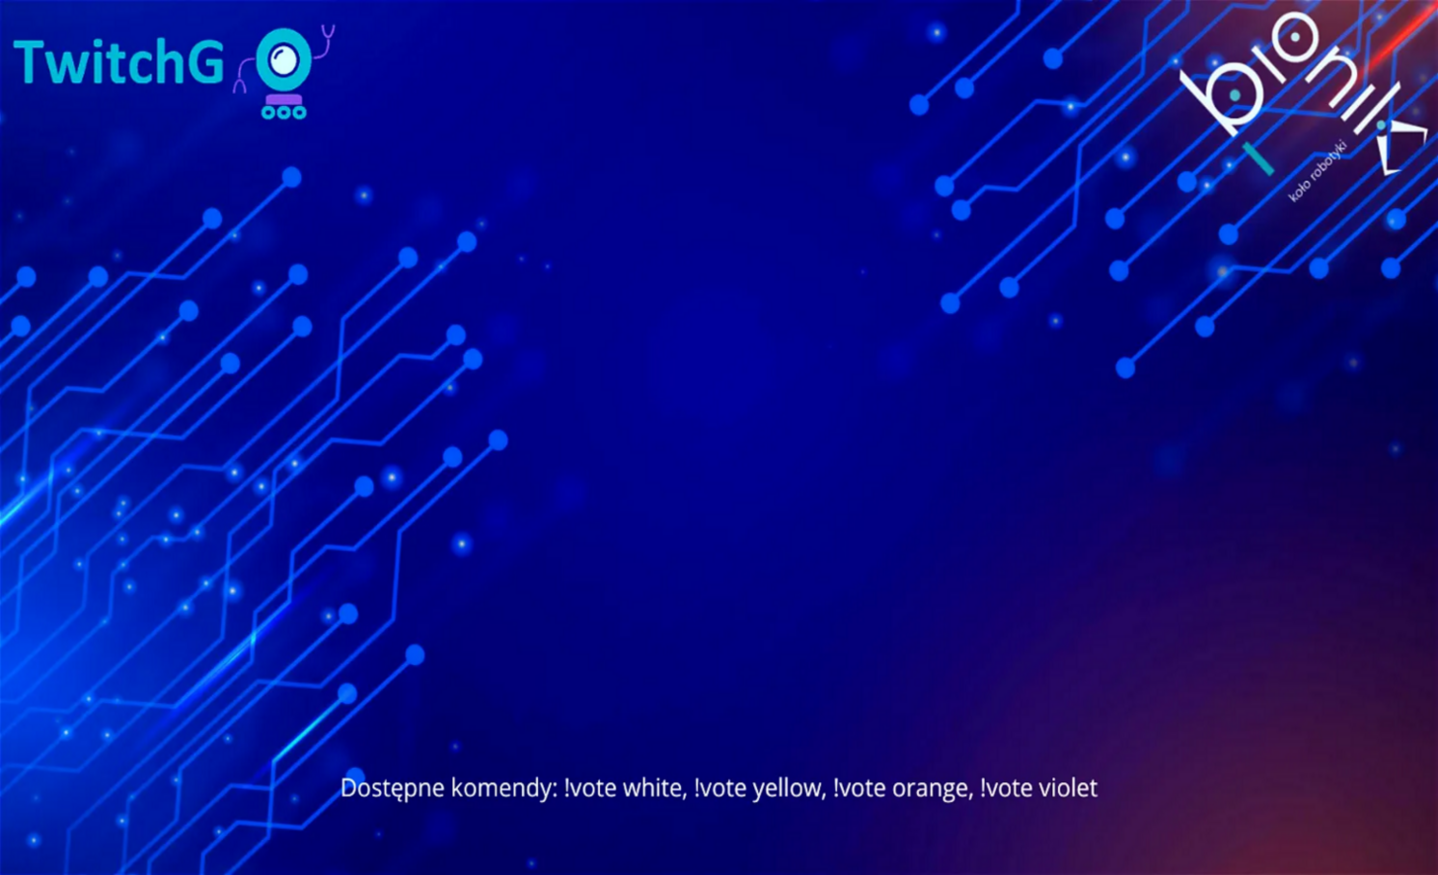
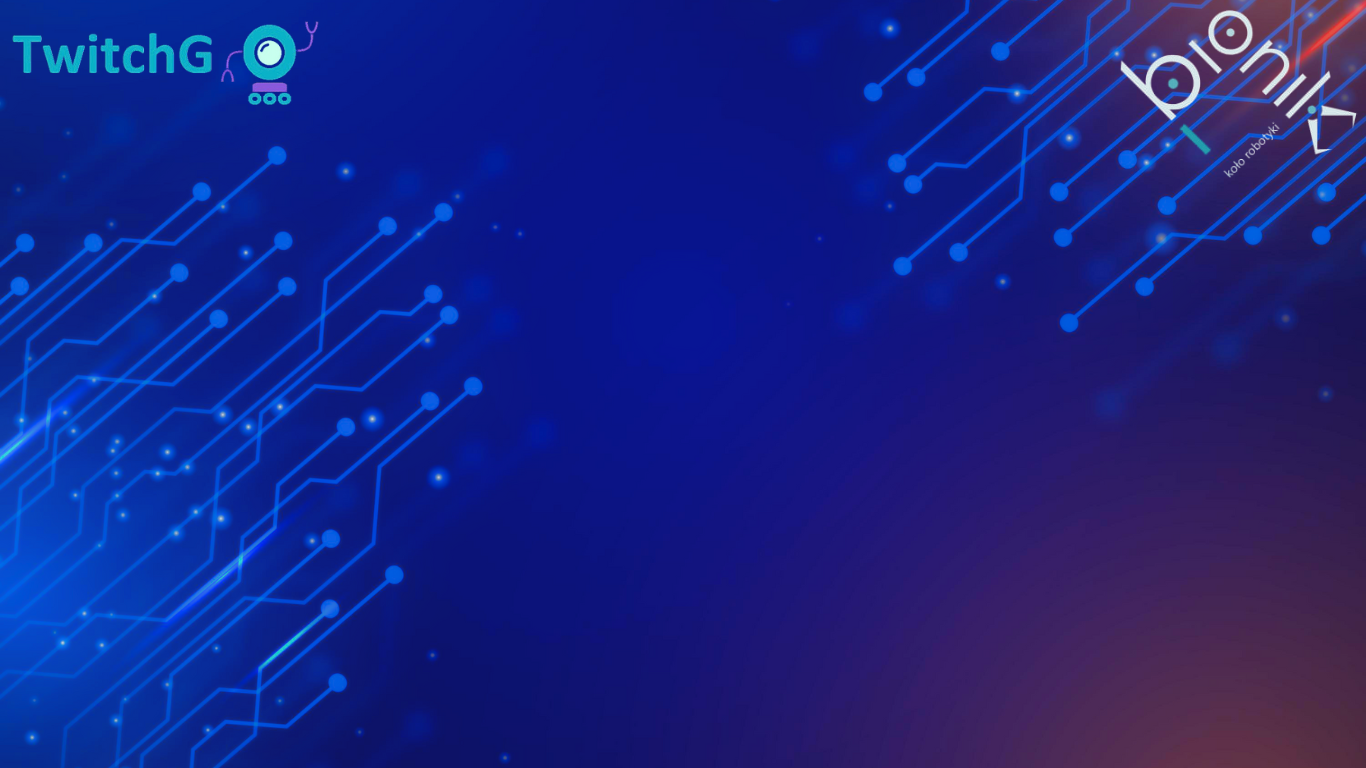
updating ui

diff --git a/viewers_view.py b/viewers_view.py
@@ -15,8 +15,9 @@ class ViewersView(QMainWindow, QGridLayout):
         self._ui = Ui_MainWindow()
         self._ui.setupUi(self)
         self._ui.score.setText('123')
-        self._stylesheet = 'background-image: url("picture.png");background-repeat:no-repeat;background-position:center;background-size: cover;'
-        self.setStyleSheet(self._stylesheet)
+        #self._stylesheet = 'background-image: url("picture.png");background-repeat:no-repeat;background-position:center'
+        self.set_background_image("picture.png")
+        #self.setStyleSheet(self._stylesheet)
         self._main_window = main_window
 
         #self._ui.bonus_time_first.setText("")
@@ -33,6 +34,17 @@ class ViewersView(QMainWindow, QGridLayout):
         self._time_between_commands = 10
         self._number_of_traps_on_display = 3
         self._choose_random_traps(self._number_of_traps_on_display)
+        self._ui.game_logo.setText("")
+        self._ui.game_logo.setPixmap(QPixmap("logo.png"))
+        self._ui.game_logo.setAlignment(Qt.AlignCenter)
+        self._ui.game_logo.setScaledContents(True)
+        self._ui.game_logo.setMinimumSize(350, 125)
+        
+        self._ui.logo_kola.setText("")
+        self._ui.logo_kola.setPixmap(QPixmap("logo_kola.png"))
+        self._ui.logo_kola.setAlignment(Qt.AlignCenter)
+        self._ui.logo_kola.setScaledContents(True)
+        self._ui.logo_kola.setMinimumSize(350, 125)
 
     def run_window(self):
         if (int(time.time()) - self._time_start) > self._time_between_commands:
@@ -115,6 +127,33 @@ class ViewersView(QMainWindow, QGridLayout):
         self._run_trap_with_most_votes()
         self._choose_random_traps(self._number_of_traps_on_display)
         self._clear_votes()
+    def set_background_image(self, image_path):
+        """
+        Sets the background image for the main window dynamically.
+        """
+        palette = QPalette()
+        pixmap = QPixmap("picture.png")
+
+        # Use QBrush to scale the image as per the window size dynamically
+        scaled_pixmap = pixmap.scaled(self.size(), Qt.IgnoreAspectRatio, Qt.SmoothTransformation)
+        palette.setBrush(QPalette.ColorRole.Window, QBrush(scaled_pixmap))
+        self.setPalette(palette)
+
+    def resizeEvent(self, event):
+        """
+        Overrides the resize event to adjust the background dynamically.
+        """
+        self.set_background_image("picture.png")
+        super().resizeEvent(event)
+        pixmap1 = QPixmap("logo.png")
+        scaled_pixmap1 = pixmap1.scaled(self._ui.game_logo.size(), Qt.KeepAspectRatio, Qt.SmoothTransformation)
+        self._ui.game_logo.setPixmap(scaled_pixmap1)
+        super().resizeEvent(event)
+
+        pixmap2 = QPixmap("logo_kola.png")
+        scaled_pixmap2 = pixmap2.scaled(self._ui.logo_kola.size(), Qt.KeepAspectRatio, Qt.SmoothTransformation)
+        self._ui.logo_kola.setPixmap(scaled_pixmap2)
+        super().resizeEvent(event)
 
 if __name__ == "__main__":
     app = QApplication(sys.argv)

diff --git a/viewers_view_ui.py b/viewers_view_ui.py
@@ -24,9 +24,24 @@ class Ui_MainWindow(object):
         self.verticalLayout_8.setObjectName(u"verticalLayout_8")
         self.horizontalLayout = QHBoxLayout()
         self.horizontalLayout.setObjectName(u"horizontalLayout")
-        self.verticalLayout_4 = QVBoxLayout()
+        self.verticalLayout_4 = QVBoxLayout(self.centralwidget)
         self.verticalLayout_7 = QVBoxLayout()
         self.verticalLayout_4.setObjectName(u"verticalLayout_4")
+        self.game_logo = QLabel()
+        self.game_logo.setObjectName(u"game_logo")
+
+        self.verticalLayout_4.addWidget(self.game_logo)
+        pixmap = QPixmap("logo.png")  # Replace with the path to your image
+
+        self.verticalLayout_7.setObjectName(u"verticalLayout_4")
+        self.logo_kola = QLabel()
+        self.logo_kola.setObjectName(u"logo_kola")
+
+        self.verticalLayout_7.addWidget(self.logo_kola)
+
+        # Optional: Add some stretch to layout
+        self.verticalLayout_4.addStretch()
+
         '''
         self.last_bonuses_first = QListWidget(self.centralwidget)
         self.last_bonuses_first.setObjectName(u"last_bonuses_first")
@@ -106,8 +121,8 @@ class Ui_MainWindow(object):
 
         self.verticalSpacer_5 = QSpacerItem(20, 40, QSizePolicy.Minimum, QSizePolicy.Expanding)
 
-
-        self.verticalLayout_4.addItem(self.verticalSpacer_5)
+        
+        #self.verticalLayout_4.addItem(self.verticalSpacer_5)
 
         self.horizontalSpacer = QSpacerItem(40, 20, QSizePolicy.Expanding, QSizePolicy.Minimum)
 
@@ -339,6 +354,10 @@ class Ui_MainWindow(object):
 
         self.votesl = QLabel(self.centralwidget)
         self.votesl.setObjectName(u"votesl")
+        self.caption_label = QLabel("Dostępne komendy: !vote white, !vote yellow, !vote orange, !vote violet")
+        self.caption_label.setAlignment(Qt.AlignCenter)
+        self.caption_label.setStyleSheet("color: white; font-size: 34px;")  # Styling
+        self.verticalLayout_8.addWidget(self.caption_label)
         palette5 = QPalette()
         brush5 = QBrush(QColor(255, 255, 255, 255))
         brush5.setStyle(Qt.SolidPattern)
@@ -421,9 +440,9 @@ class Ui_MainWindow(object):
 
     def retranslateUi(self, MainWindow):
         MainWindow.setWindowTitle(QCoreApplication.translate("MainWindow", u"MainWindow", None))
-        self.bonus_time_first.setText(QCoreApplication.translate("MainWindow", u"TextLabel", None))
+        #self.bonus_time_first.setText(QCoreApplication.translate("MainWindow", u"TextLabel", None))
         self.score.setText(QCoreApplication.translate("MainWindow", u"TextLabel", None))
-        self.bonus_time_second.setText(QCoreApplication.translate("MainWindow", u"TextLabel", None))
+        #self.bonus_time_second.setText(QCoreApplication.translate("MainWindow", u"TextLabel", None))
         self.votesl.setText("")
     # retranslateUi
 
